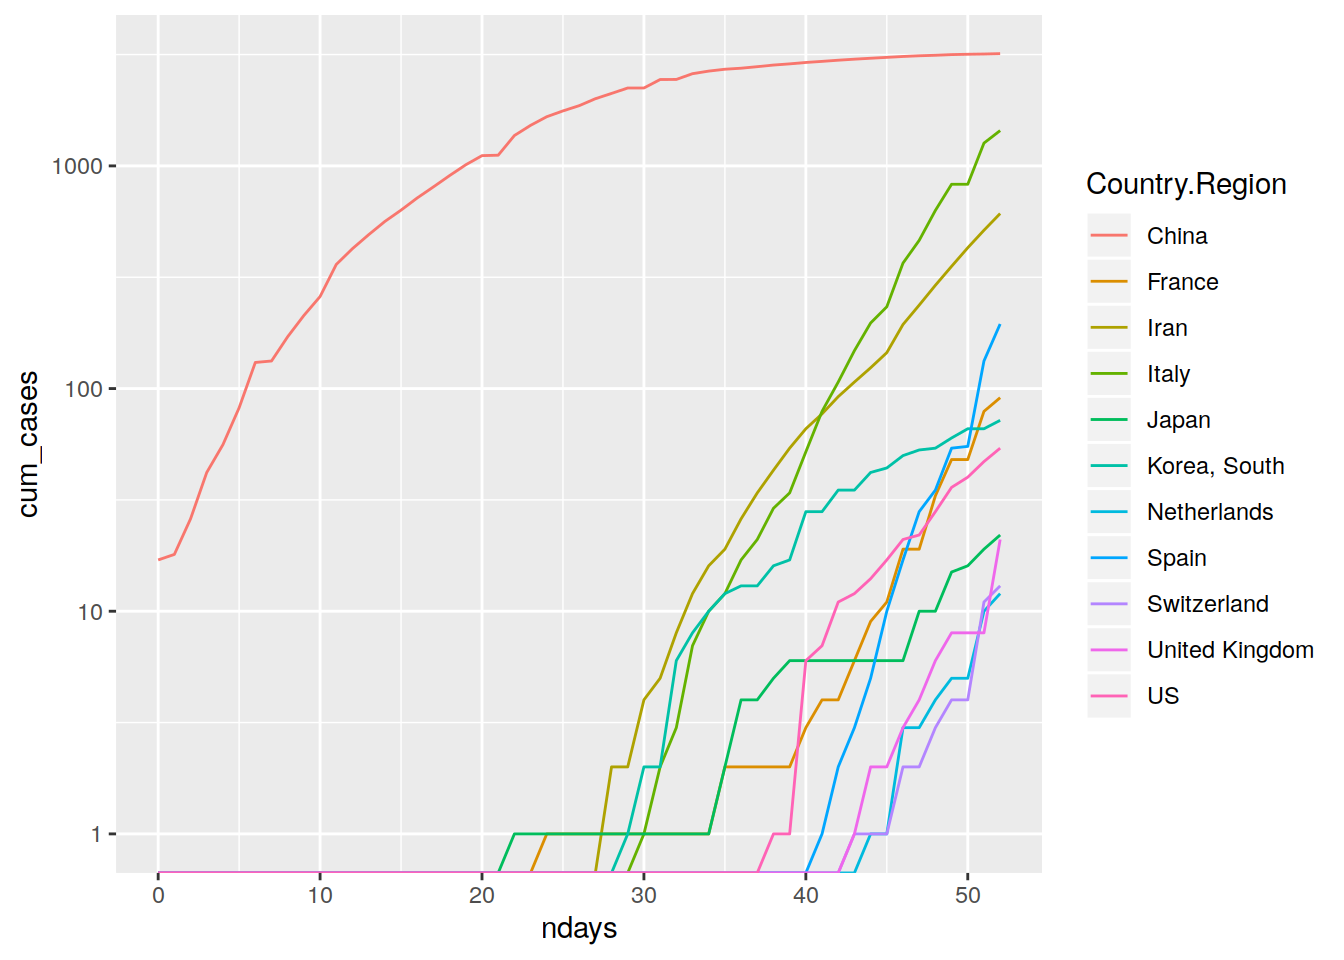
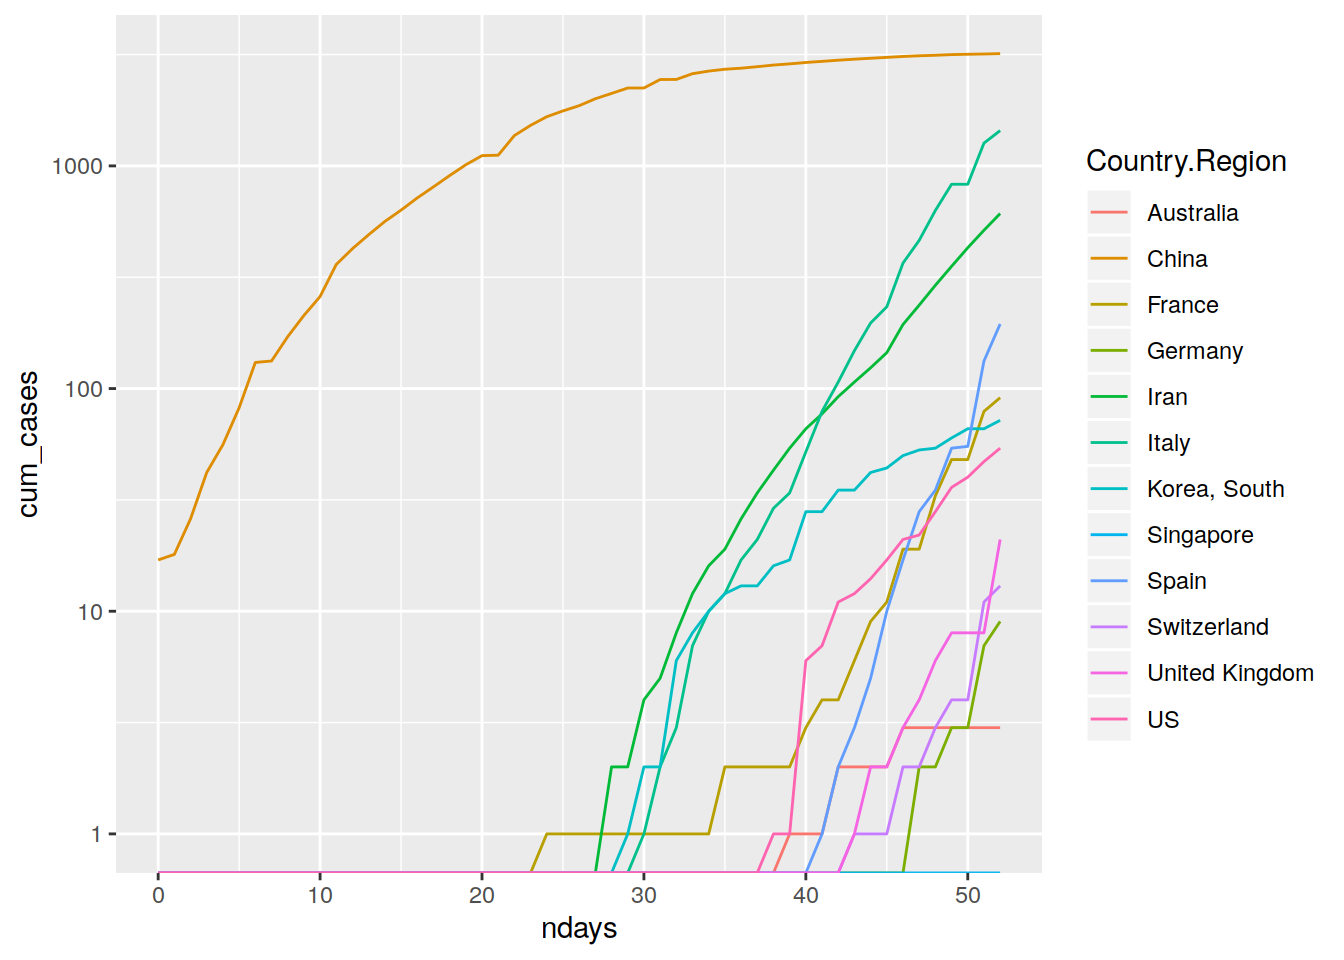
Build site.

diff --git a/docs/basic_stats.html b/docs/basic_stats.html
@@ -497,10 +497,10 @@ This reproducible <a href="http://rmarkdown.rstudio.com">R Markdown</a> analysis
 <div class="panel panel-default">
 <div class="panel-heading">
 <p class="panel-title">
-<a data-toggle="collapse" data-parent="#workflowr-checks" href="#strongRepositoryversionstrongahrefhttpsgithubcomdewollercovid19treebee4cc93f84eadf5193a4af14aca8163356a1adetargetblankbee4cc9a"> <span class="glyphicon glyphicon-ok text-success" aria-hidden="true"></span> <strong>Repository version:</strong> <a href="https://github.com/dewoller/covid-19/tree/bee4cc93f84eadf5193a4af14aca8163356a1ade" target="_blank">bee4cc9</a> </a>
+<a data-toggle="collapse" data-parent="#workflowr-checks" href="#strongRepositoryversionstrongahrefhttpsgithubcomdewollercovid19treed26169af555302058ad3a28b23a4d7cf4adb5c5ftargetblankd26169aa"> <span class="glyphicon glyphicon-ok text-success" aria-hidden="true"></span> <strong>Repository version:</strong> <a href="https://github.com/dewoller/covid-19/tree/d26169af555302058ad3a28b23a4d7cf4adb5c5f" target="_blank">d26169a</a> </a>
 </p>
 </div>
[2 lines of base64/hex data omitted]
 <div class="panel-body">
 <p>
 Great! You are using Git for version control. Tracking code development and connecting the code version to the results is critical for reproducibility. The version displayed above was the version of the Git repository at the time these results were generated. <br><br> Note that you need to be careful to ensure that all relevant files for the analysis have been committed to Git prior to generating the results (you can use <code>wflow_publish</code> or <code>wflow_git_commit</code>). workflowr only checks the R Markdown file, but you know if there are other scripts or data files that it depends on. Below is the status of the Git repository when the results were generated:
@@ -546,6 +546,40 @@ Message
 </tr>
 </thead>
 <tbody>
+<tr>
+<td>
+Rmd
+</td>
+<td>
+<a href="https://github.com/dewoller/covid-19/blob/d26169af555302058ad3a28b23a4d7cf4adb5c5f/analysis/basic_stats.Rmd" target="_blank">d26169a</a>
+</td>
+<td>
+Dennis Wollersheim
+</td>
+<td>
+2020-03-15
+</td>
+<td>
+wflow_publish(“analysis/basic_stats.Rmd”)
+</td>
+</tr>
+<tr>
+<td>
+html
+</td>
+<td>
+<a href="https://rawcdn.githack.com/dewoller/covid-19/f0e98f86fce0d5cc1b4d630f508f58aa0012dc6a/docs/basic_stats.html" target="_blank">f0e98f8</a>
+</td>
+<td>
+Dennis Wollersheim
+</td>
+<td>
+2020-03-15
+</td>
+<td>
+Build site.
+</td>
+</tr>
 <tr>
 <td>
 html
@@ -737,7 +771,8 @@ Attaching package: &#39;lubridate&#39;</code></pre>
 <pre><code>The following object is masked from &#39;package:base&#39;:
 
     date</code></pre>
-<pre class="r"><code>data(pop)
+<pre class="r"><code>library(dplyr)
+data(pop)
 
 pop %&gt;% 
   as_tibble() %&gt;% 
@@ -761,6 +796,14 @@ coronavirus %&gt;%
   left_join( mapping ) %&gt;% 
   { . } -&gt; coronavirus</code></pre>
 <pre><code>Joining, by = &quot;Country.Region&quot;</code></pre>
+<pre class="r"><code>coronavirus %&gt;%
+  filter( type==&#39;confirmed&#39; ) %&gt;%
+  group_by( Country.Region ) %&gt;%
+  summarise( cases = sum(cases)) %&gt;%
+  top_n(10, cases) %&gt;% 
+  pluck(&#39;Country.Region&#39;) %&gt;% 
+  c(&#39;Australia&#39;, &#39;Singapore&#39;) %&gt;%
+  { . } -&gt; top_10_countries</code></pre>
 </div>
 <div id="cumulative-cases-by-country-and-number-of-days-since-first-case" class="section level1">
 <h1>Cumulative cases by country and number of days since first case</h1>
@@ -772,7 +815,7 @@ coronavirus %&gt;%
   summarise( cases=sum(cases)) %&gt;%
   ungroup() %&gt;%
   group_by( Country.Region) %&gt;%
-  filter( sum(cases) &gt; 200 ) %&gt;%
+  filter( Country.Region %in% top_10_countries) %&gt;%
   arrange( ndays, .by_group=TRUE) %&gt;%
   mutate( cum_cases = cumsum( cases) ) %&gt;%
   ggplot(aes( ndays, cum_cases, color=Country.Region)) +
@@ -802,6 +845,17 @@ Date
 </tr>
 </thead>
 <tbody>
+<tr>
+<td>
+<a href="https://github.com/dewoller/covid-19/blob/f0e98f86fce0d5cc1b4d630f508f58aa0012dc6a/docs/figure/basic_stats.Rmd/unnamed-chunk-1-1.png" target="_blank">f0e98f8</a>
+</td>
+<td>
+Dennis Wollersheim
+</td>
+<td>
+2020-03-15
+</td>
+</tr>
 <tr>
 <td>
 <a href="https://github.com/dewoller/covid-19/blob/05e003b560ff96e1adcc7e7027000437edca447d/docs/figure/basic_stats.Rmd/unnamed-chunk-1-1.png" target="_blank">05e003b</a>
@@ -839,7 +893,7 @@ Dennis Wollersheim
   summarise( cases=sum(cases)) %&gt;%
   ungroup() %&gt;%
   group_by( Country.Region) %&gt;%
-  filter( sum(cases) &gt; 10 ) %&gt;%
+  filter( Country.Region %in% top_10_countries) %&gt;%
   arrange( ndays, .by_group=TRUE) %&gt;%
   mutate( cum_cases = cumsum( cases) ) %&gt;%
   ggplot(aes( ndays, cum_cases, color=Country.Region)) +
@@ -869,6 +923,17 @@ Date
 </tr>
 </thead>
 <tbody>
+<tr>
+<td>
+<a href="https://github.com/dewoller/covid-19/blob/f0e98f86fce0d5cc1b4d630f508f58aa0012dc6a/docs/figure/basic_stats.Rmd/unnamed-chunk-2-1.png" target="_blank">f0e98f8</a>
+</td>
+<td>
+Dennis Wollersheim
+</td>
+<td>
+2020-03-15
+</td>
+</tr>
 <tr>
 <td>
 <a href="https://github.com/dewoller/covid-19/blob/05e003b560ff96e1adcc7e7027000437edca447d/docs/figure/basic_stats.Rmd/unnamed-chunk-2-1.png" target="_blank">05e003b</a>
@@ -912,7 +977,7 @@ Dennis Wollersheim
   summarise( cases=sum(cases)) %&gt;%
   ungroup() %&gt;%
   group_by( Country.Region) %&gt;%
-  filter( sum(cases) &gt; 100 ) %&gt;%
+  filter( Country.Region %in% top_10_countries) %&gt;%
   arrange( ndays, .by_group=TRUE) %&gt;%
   mutate( rate = cumsum(cases ) / as.integer(ndays)  ) %&gt;%
   ggplot(aes( ndays, rate, color=Country.Region)) +
@@ -943,6 +1008,17 @@ Date
 </tr>
 </thead>
 <tbody>
+<tr>
+<td>
+<a href="https://github.com/dewoller/covid-19/blob/f0e98f86fce0d5cc1b4d630f508f58aa0012dc6a/docs/figure/basic_stats.Rmd/unnamed-chunk-3-1.png" target="_blank">f0e98f8</a>
+</td>
+<td>
+Dennis Wollersheim
+</td>
+<td>
+2020-03-15
+</td>
+</tr>
 <tr>
 <td>
 <a href="https://github.com/dewoller/covid-19/blob/05e003b560ff96e1adcc7e7027000437edca447d/docs/figure/basic_stats.Rmd/unnamed-chunk-3-1.png" target="_blank">05e003b</a>
@@ -986,7 +1062,7 @@ Dennis Wollersheim
   summarise( cases=sum(cases), population = min(`2015`)) %&gt;%
   ungroup() %&gt;%
   group_by( Country.Region) %&gt;%
-  filter( sum(cases) &gt; 200  | Country.Region==&#39;Singapore&#39; | Country.Region==&#39;Australia&#39;) %&gt;%
+  filter( Country.Region %in% top_10_countries) %&gt;%
   arrange( ndays, .by_group=TRUE) %&gt;%
   mutate( cumcases = cumsum(cases), rate = cumsum(cases ) / population  ) %&gt;%
   ggplot(aes( ndays, rate, color=Country.Region)) +
@@ -1016,6 +1092,17 @@ Date
 </tr>
 </thead>
 <tbody>
+<tr>
+<td>
+<a href="https://github.com/dewoller/covid-19/blob/f0e98f86fce0d5cc1b4d630f508f58aa0012dc6a/docs/figure/basic_stats.Rmd/unnamed-chunk-4-1.png" target="_blank">f0e98f8</a>
+</td>
+<td>
+Dennis Wollersheim
+</td>
+<td>
+2020-03-15
+</td>
+</tr>
 <tr>
 <td>
 <a href="https://github.com/dewoller/covid-19/blob/05e003b560ff96e1adcc7e7027000437edca447d/docs/figure/basic_stats.Rmd/unnamed-chunk-4-1.png" target="_blank">05e003b</a>
@@ -1078,7 +1165,7 @@ Dennis Wollersheim
   ungroup() %&gt;%
   group_by( Country.Region) %&gt;%
   # filter( Country.Region==&#39;Japan&#39; ) %&gt;%
-  filter( sum(cases) &gt; 200  | Country.Region==&#39;Singapore&#39; | Country.Region==&#39;Australia&#39;) %&gt;%
+  filter( Country.Region %in% top_10_countries) %&gt;%
   mutate( rate = cases  / population  ) %&gt;%
   ggplot(aes( week, rate, color=Country.Region)) +
   geom_line() +
@@ -1109,6 +1196,17 @@ Date
 <tbody>
 <tr>
 <td>
+<a href="https://github.com/dewoller/covid-19/blob/f0e98f86fce0d5cc1b4d630f508f58aa0012dc6a/docs/figure/basic_stats.Rmd/unnamed-chunk-5-1.png" target="_blank">f0e98f8</a>
+</td>
+<td>
+Dennis Wollersheim
+</td>
+<td>
+2020-03-15
+</td>
+</tr>
+<tr>
+<td>
 <a href="https://github.com/dewoller/covid-19/blob/05e003b560ff96e1adcc7e7027000437edca447d/docs/figure/basic_stats.Rmd/unnamed-chunk-5-1.png" target="_blank">05e003b</a>
 </td>
 <td>
@@ -1135,7 +1233,7 @@ Dennis Wollersheim
   ungroup() %&gt;%
   group_by( Country.Region) %&gt;%
   # filter( Country.Region==&#39;Japan&#39; ) %&gt;%
-  filter( sum(cases) &gt; 200  | Country.Region==&#39;Singapore&#39; | Country.Region==&#39;Australia&#39;) %&gt;%
+  filter( Country.Region %in% top_10_countries) %&gt;%
   mutate( rate = cases  / population  ) %&gt;%
   ggplot(aes( date, rate, color=Country.Region)) +
   geom_smooth() +
@@ -1164,6 +1262,17 @@ Date
 </tr>
 </thead>
 <tbody>
+<tr>
+<td>
+<a href="https://github.com/dewoller/covid-19/blob/f0e98f86fce0d5cc1b4d630f508f58aa0012dc6a/docs/figure/basic_stats.Rmd/unnamed-chunk-6-1.png" target="_blank">f0e98f8</a>
+</td>
+<td>
+Dennis Wollersheim
+</td>
+<td>
+2020-03-15
+</td>
+</tr>
 <tr>
 <td>
 <a href="https://github.com/dewoller/covid-19/blob/05e003b560ff96e1adcc7e7027000437edca447d/docs/figure/basic_stats.Rmd/unnamed-chunk-6-1.png" target="_blank">05e003b</a>
